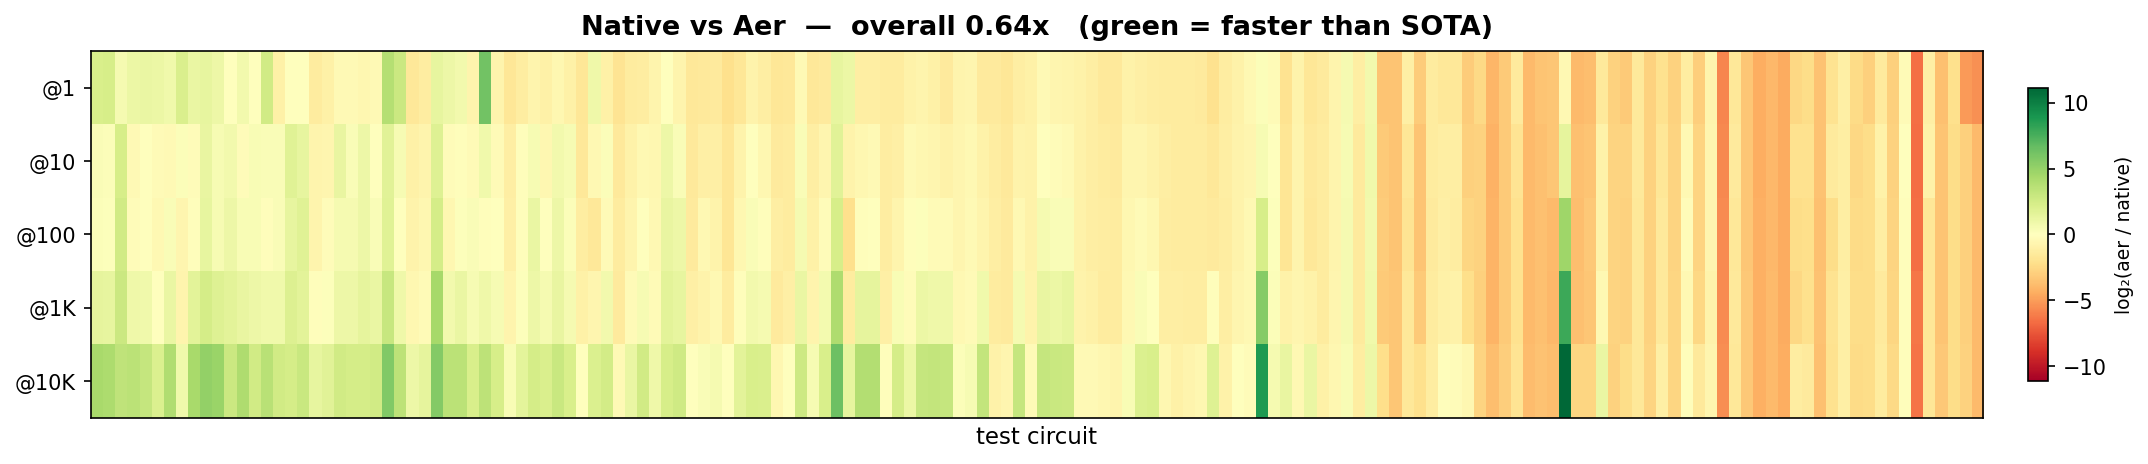
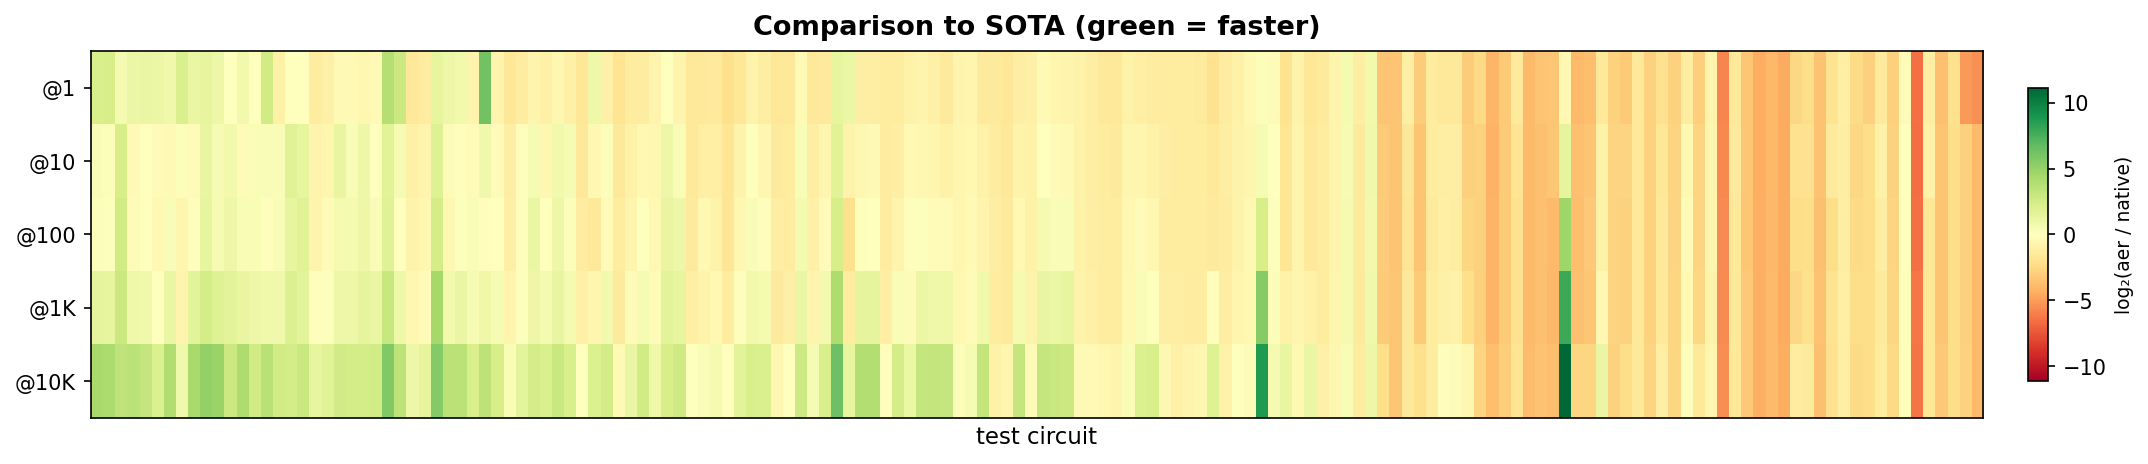
Clean up README: hero heatmap, drop legacy tables and charts

Changed region(s): [[0.2495, 0.0302, 0.7174, 0.0905]]

diff --git a/README.md b/README.md
@@ -2,45 +2,9 @@
 
 A state-vector quantum circuit simulator built from scratch with PyTorch, targeting Apple Silicon (MPS) as a first-class backend.
 
-### Core-6 (saturated - at Aer parity)
+![Comparison to SOTA](docs/native-vs-aer.png)
 
-![Core-6 optimization progress](docs/progress-core.png)
-
-| Shots | Baseline | Current | Speedup | Aer |
-|---:|---:|---:|---:|---:|
-| @1 | 150.39s | 0.024s | 6,300x | 0.015s |
-| @10 | 156.37s | 0.019s | 8,100x | 0.016s |
-| @100 | 210.54s | 0.019s | 11,400x | 0.016s |
-| @1000 | 718.68s | 0.019s | 38,400x | 0.019s |
-
-The core-6 reached Aer parity - these small circuits (2-13 qubits, 4-184 gates) no longer challenge the simulator. To drive further optimization, the benchmark suite was expanded to 156 cases spanning 2-24 qubits with circuits up to 1776 gates, covering 10 circuit families (BV, DJ, Grover, QPE, QAOA, GHZ, W-state, Graph-state, QFT, Simon) plus roundtrip and dynamic variants.
-
-### Full suite (156 cases - active optimization target)
-
-Full-suite progress data: [`docs/progress-data.md`](docs/progress-data.md). Core-6 data: [`docs/progress-data-core.md`](docs/progress-data-core.md). Detailed run log: [`docs/experiment-log.md`](docs/experiment-log.md).
-
-### Native vs Aer (current full-run comparison)
-
-![Native vs Aer comparison](docs/native-vs-aer.png)
-
-Based on:
-- Native: `benchmarks/results/2026-02-11T203633.jsonl`
-- Aer: `benchmarks/results/2026-02-11T211659.jsonl`
-
-Method:
-- Per-cell score uses runtime ratio `aer_runtime / native_runtime` (values `>1` mean native is faster).
-- Aggregation is geometric mean by shot and overall.
-- Missing/aborted cells are timeout-censored at 30s so aborts are penalized instead of dropped.
-
-Current readout:
-- Overall geometric mean ratio: **0.640x** (Aer faster overall on this run).
-- By shot: **0.43x** (@1), **0.48x** (@10), **0.51x** (@100), **0.68x** (@1000), **1.50x** (@10000).
-- Coverage: native completed 151/156 cases (5 aborts), Aer completed 155/156 cases (1 abort).
-
-Interpretation:
-- Native is still behind Aer in low-to-mid shots.
-- Native flips ahead at @10000 and wins more large-shot cells.
-- Heatmap outliers highlight where native already dominates (for example, dynamic syndrome/feedback families at high shots) and where static 24q circuits remain the largest gap.
+156 test circuits spanning 2-24 qubits, 10 circuit families, static and dynamic workloads. Benchmarked against Qiskit Aer (IBM's C++ simulator) across 5 shot counts. Per-cell color is `log2(aer_time / native_time)` — green means this simulator is faster.
 
 ## Why this exists
 
@@ -74,45 +38,14 @@ Big-endian qubit ordering (qubit 0 is the leftmost bit). Supports CUDA, MPS, and
 ## Benchmark suite
 
 ```bash
-uv run bench -v --backend native        # full suite (156 cases, 30s timeout per shot)
-uv run bench --core -v                  # core-6 only (legacy)
-uv run bench --timeout 60 -v            # custom timeout (seconds per case per shot count)
+uv run bench -v                         # full suite (156 cases, 30s timeout per shot)
+uv run bench --timeout 60 -v            # custom timeout
 uv run bench --cases real_grovers qft   # selected cases
 uv run bench -v --backend aer           # same suite on Aer backend
 ```
 
-156 cases covering static circuits (terminal-only measurements), dynamic circuits (mid-circuit measurement + conditionals), and scaling stress tests from 2 to 24 qubits. Cases include 24 hand-coded benchmarks plus 132 QASM-loaded circuits auto-discovered from `benchmarks/circuits/`. Each run checks correctness against expected output distributions.
-
-Cases are sorted by qubit count (small first) and results are written incrementally to JSONL - if a large case OOMs or the process is killed, all prior results are preserved. Cases exceeding the per-shot timeout (default 30s) or running out of memory are aborted and excluded from totals.
-
-### SOTA comparison
-
-Use the same `bench` runner with `--backend aer` to collect Aer timings with the same per-case telemetry. The primary comparison artifact is the combined figure above, generated directly from paired JSONL runs.
-
-## Optimization workflow
-
-See [`OPTIMIZE.md`](OPTIMIZE.md) for the complete, self-contained optimization guide. It covers profiling, hypothesis formation, benchmarking, evaluation, and progress tracking.
+See [`OPTIMIZE.md`](OPTIMIZE.md) for the optimization workflow.
 
 ## Examples
 
 See `examples/` for standalone scripts: a Bell state, a simple Grover's search, and a full Grover's hash-preimage search.
-
-## Key files
-
-| File | Purpose |
-|------|---------|
-| `src/quantum/system.py` | Simulation engine |
-| `src/quantum/gates.py` | Gate types and circuit API |
-| `src/quantum/qasm.py` | QASM 2.0 parser |
-| `OPTIMIZE.md` | Optimization workflow guide |
-| `benchmarks/run.py` | Benchmark harness (`bench`) |
-| `benchmarks/trace.py` | Profiler (`bench-trace`) |
-| `benchmarks/cases/` | Hand-coded benchmark case definitions |
-| `benchmarks/circuits/` | QASM circuit files (auto-discovered) |
-| `benchmarks/expected/` | Expected distributions from Aer |
-| `benchmarks/generate_circuits.py` | QASM circuit generator |
-| `benchmarks/generate_expected.py` | Expected distribution generator (via Aer) |
-| `docs/experiment-log.md` | Experiment log |
-| `docs/native-vs-aer.png` | Native-vs-Aer heatmap comparison |
-| `docs/progress-data.md` | Full-suite progress chart data |
-| `docs/progress-data-core.md` | Core-6 progress chart data |
